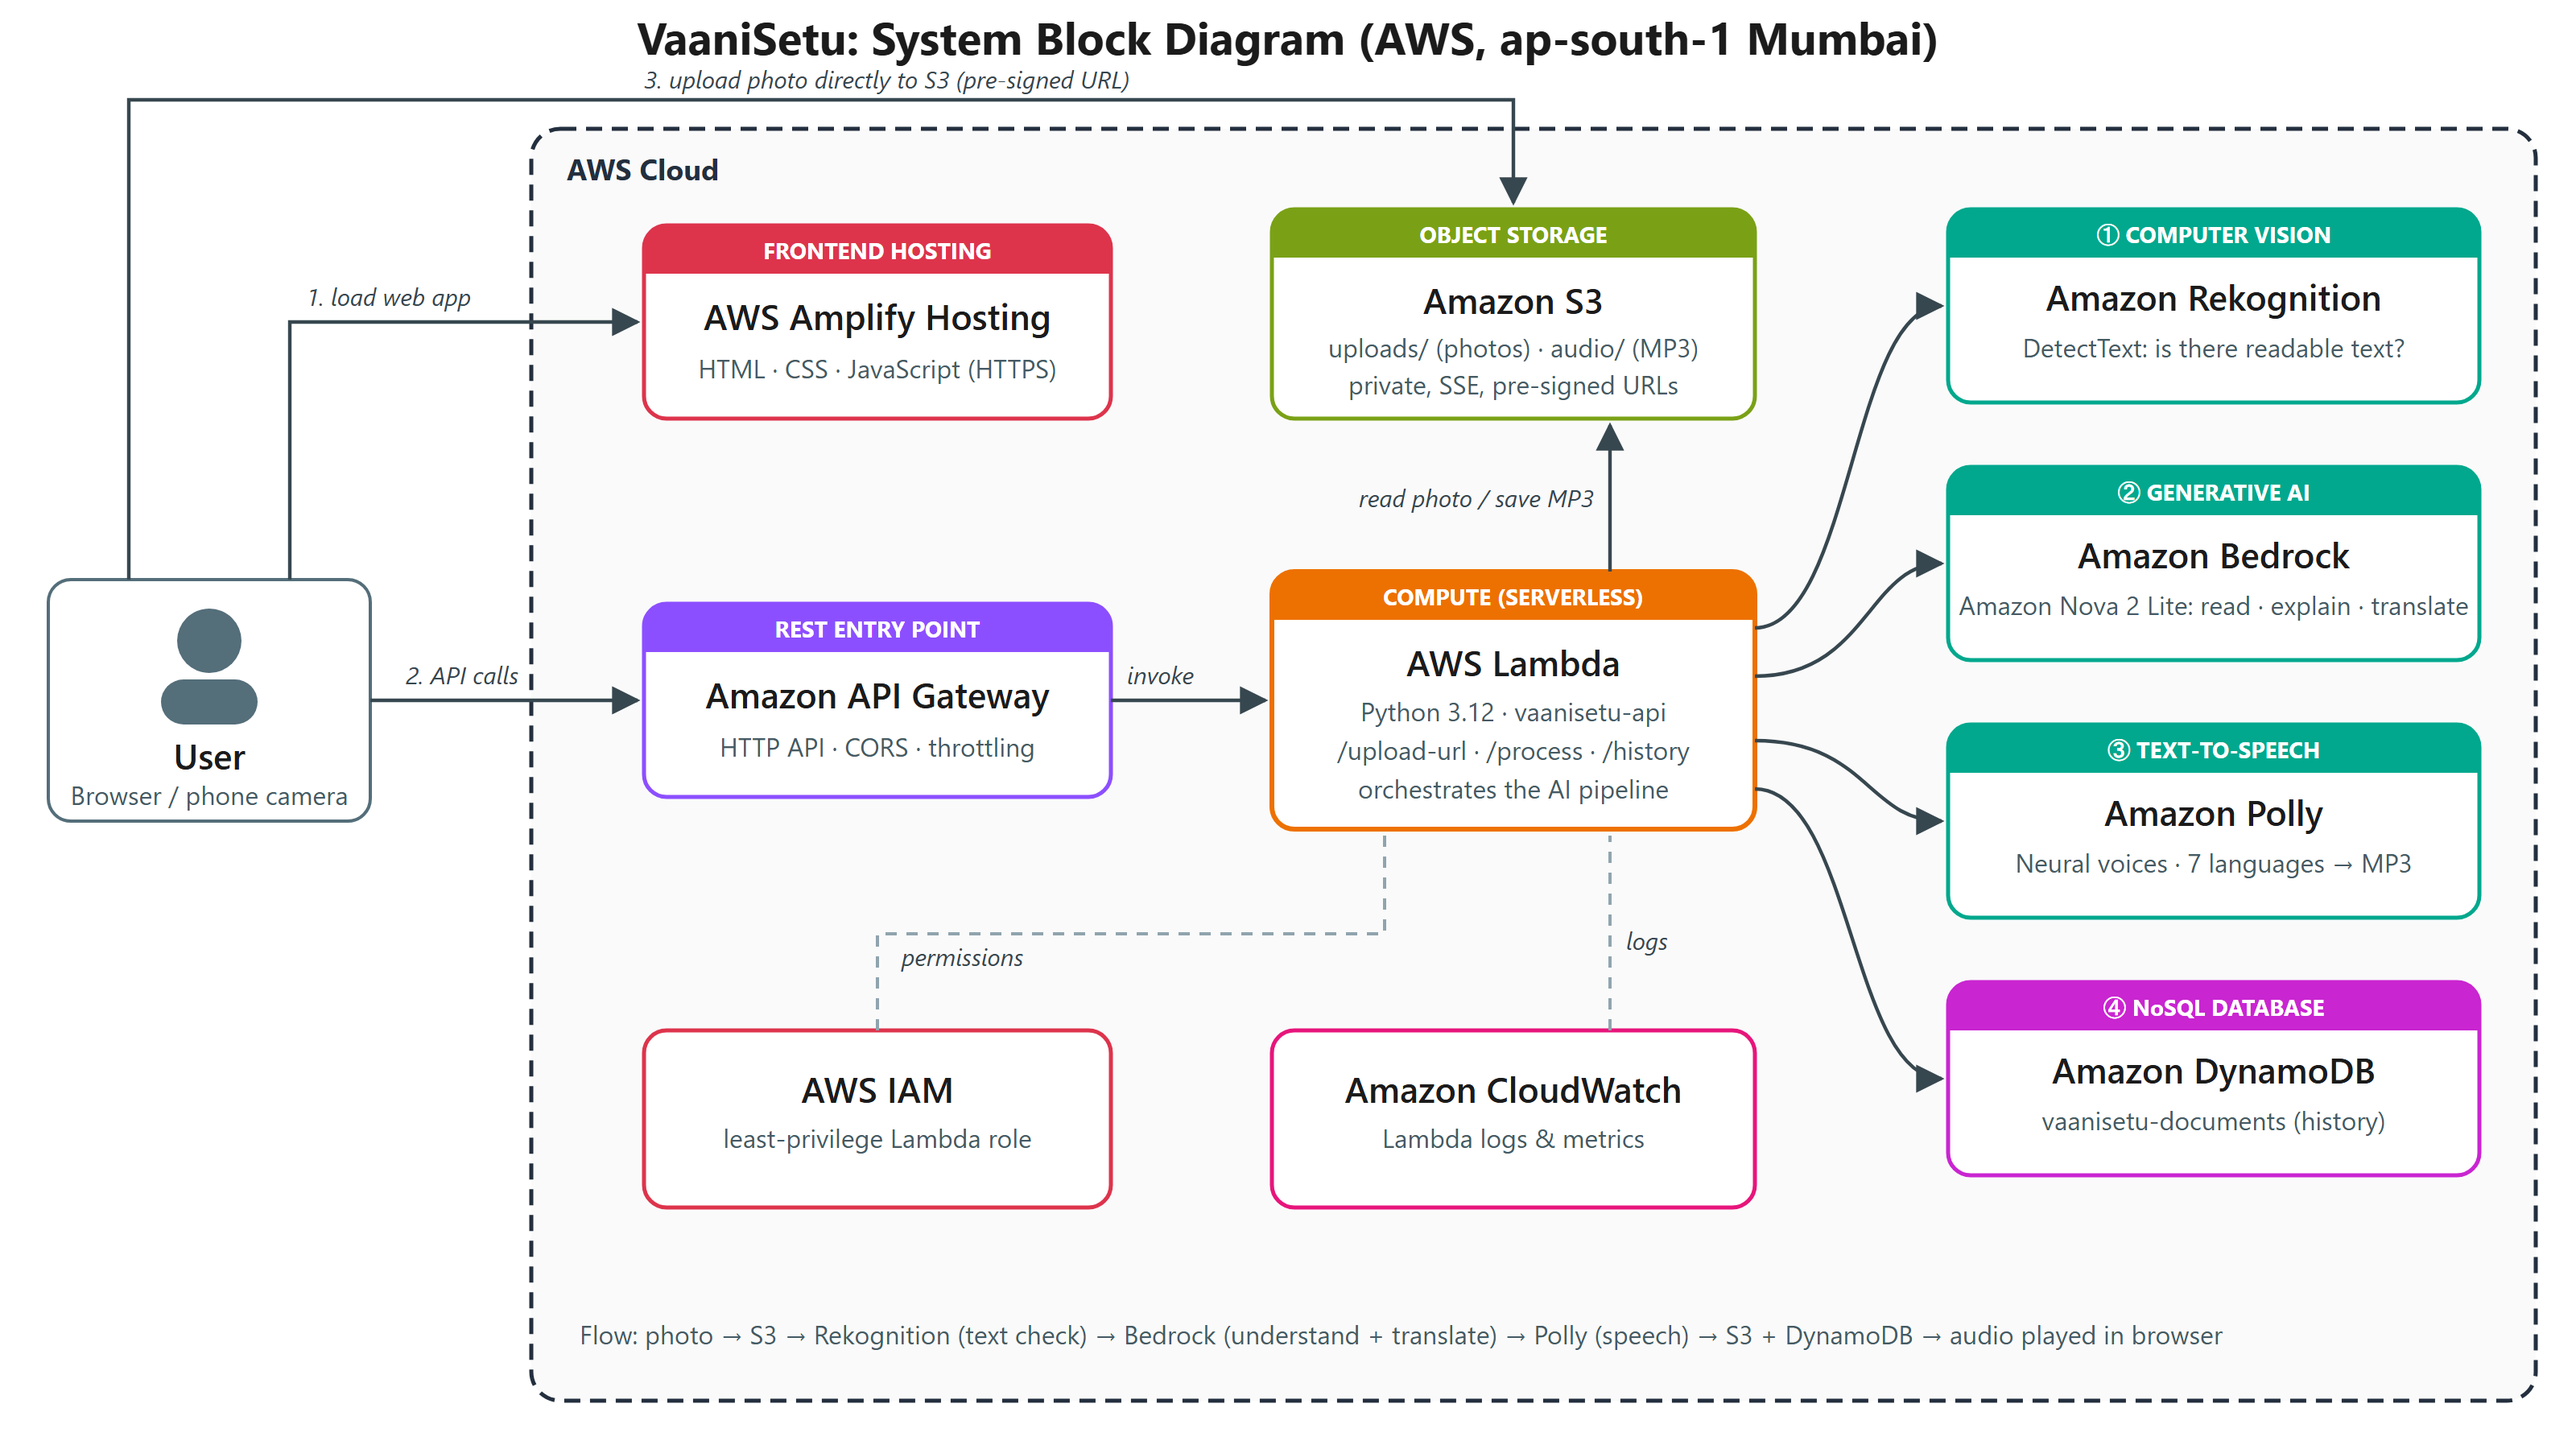
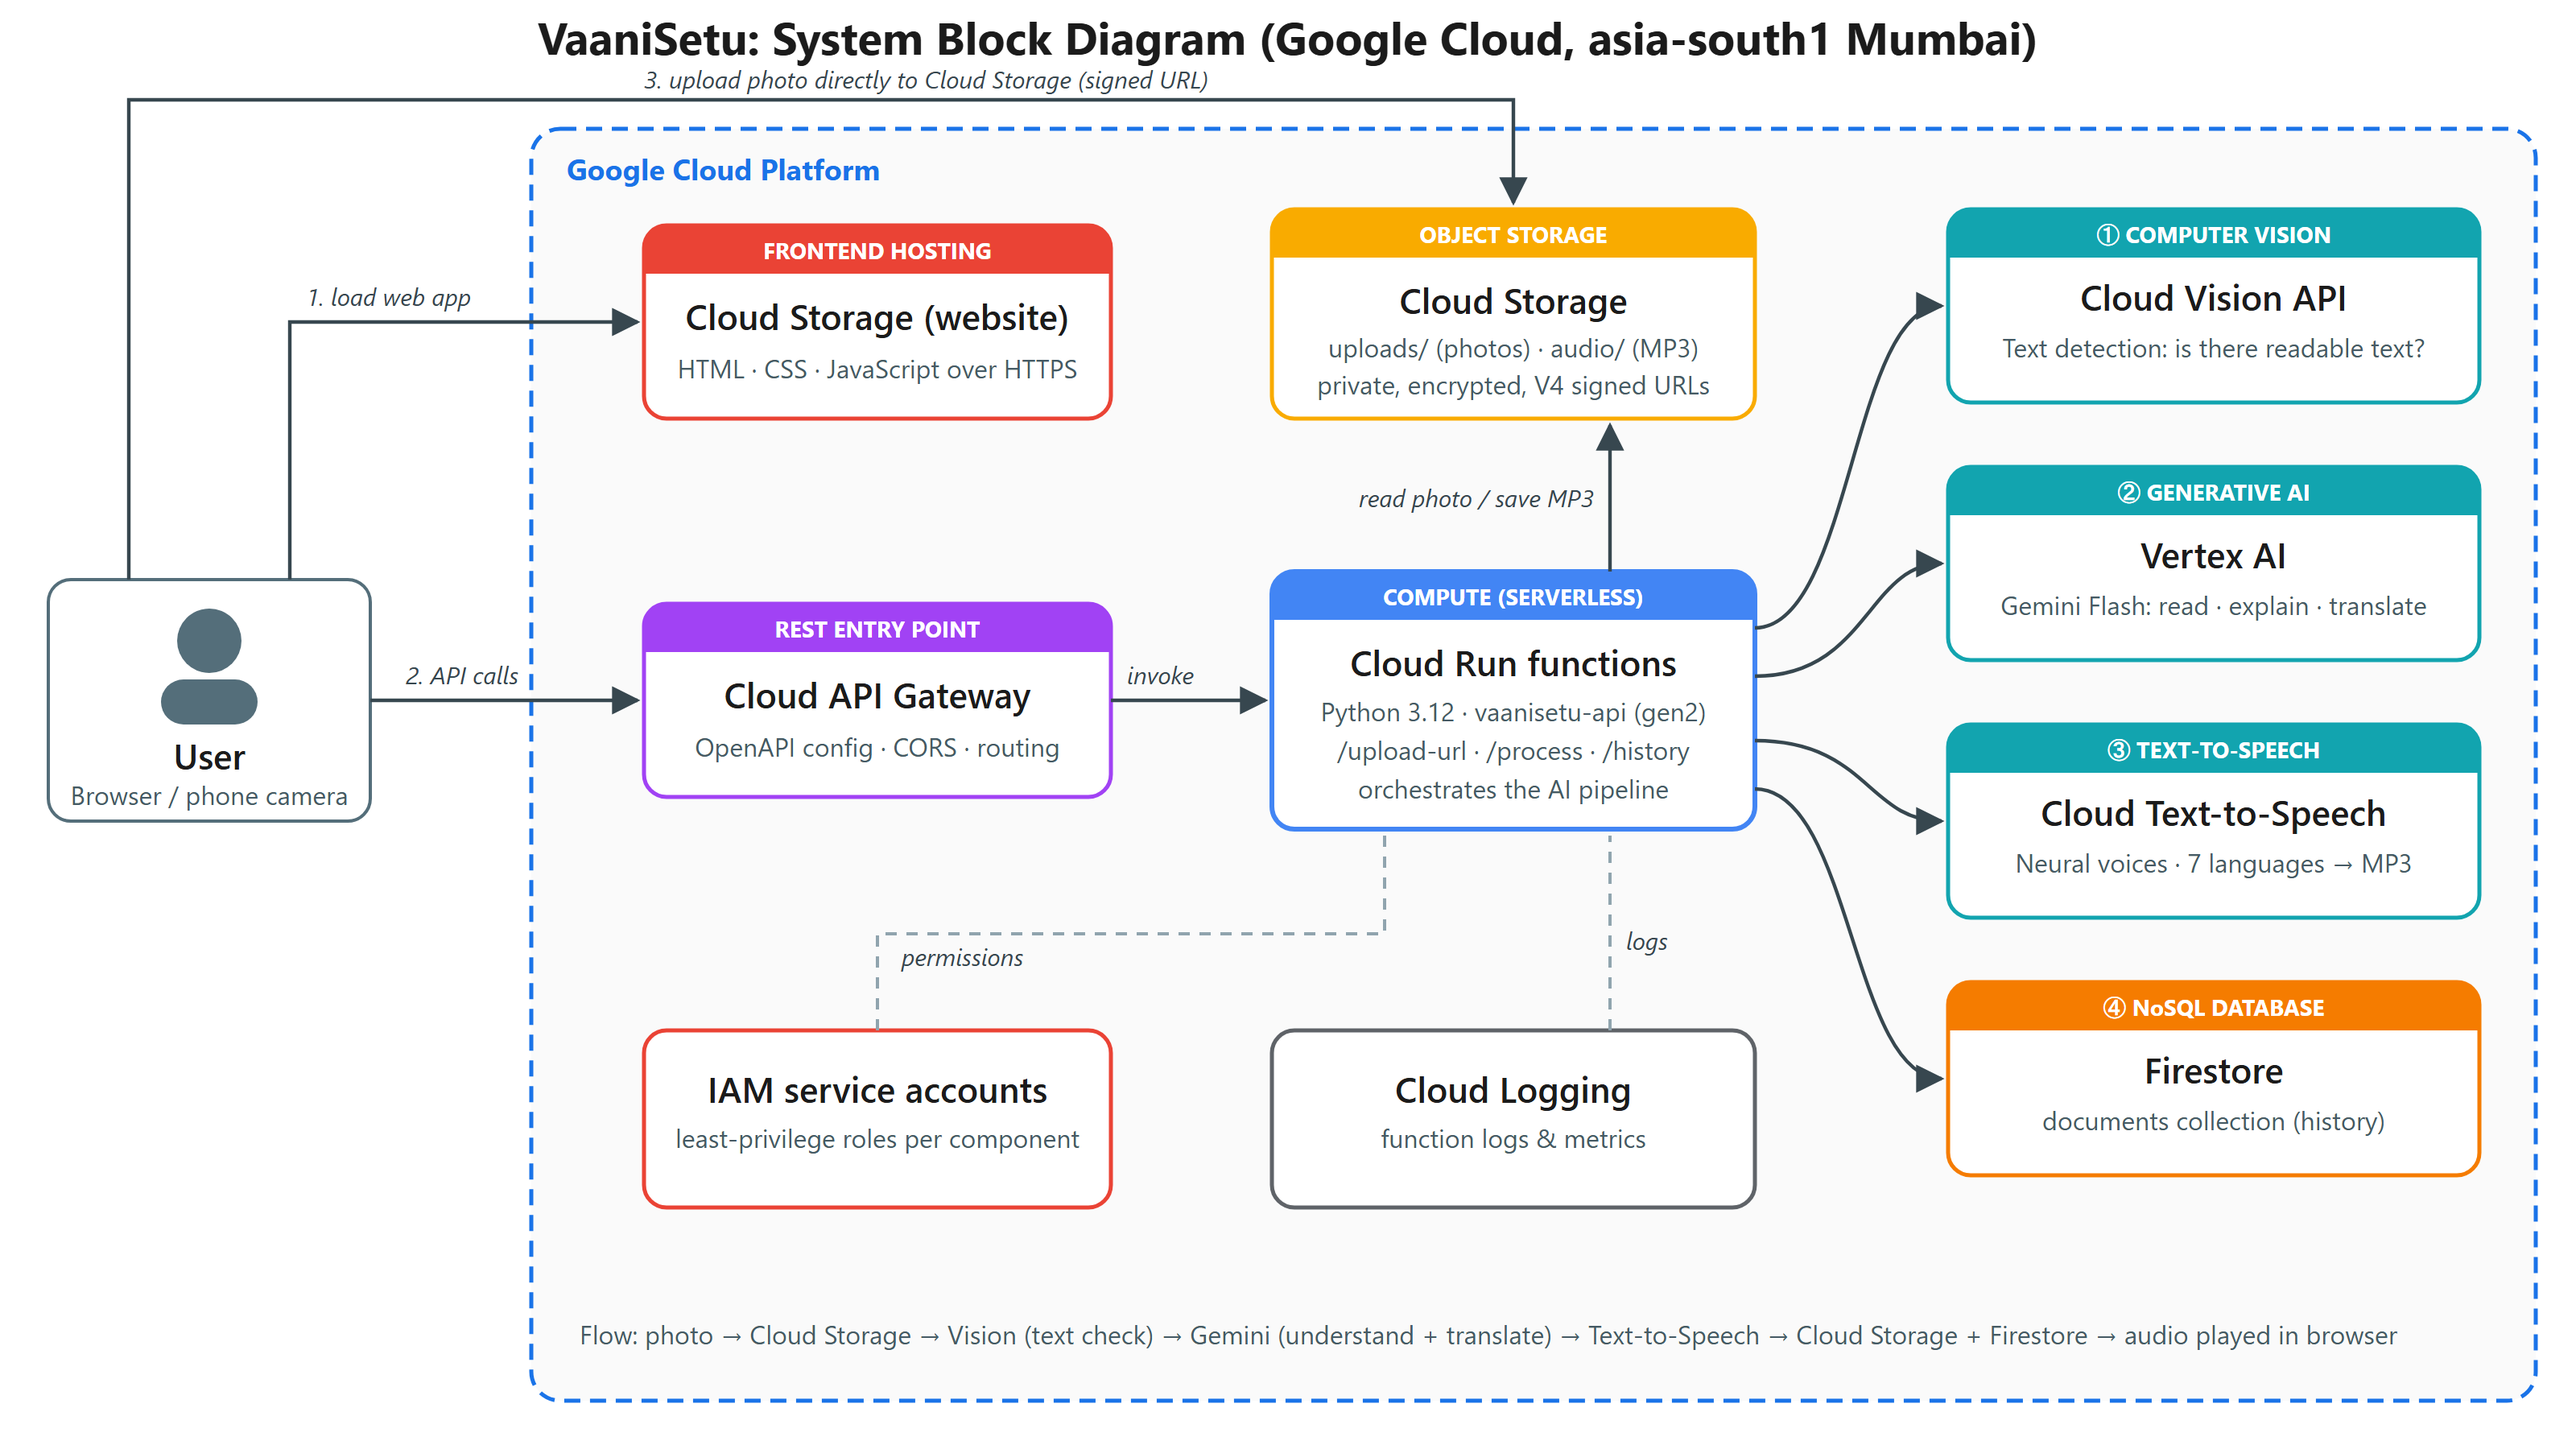
Redraw block diagram for Google Cloud

diff --git a/report/diagram.html b/report/diagram.html
@@ -14,11 +14,11 @@ body{margin:0;background:#fff;font-family:"Segoe UI",Arial,sans-serif}
       .dash{stroke:#90a4ae;stroke-width:2;fill:none;stroke-dasharray:7 6}
     </style>
   </defs>
-  <text x="800" y="34" text-anchor="middle" style="font:700 28px 'Segoe UI',Arial;fill:#1b1b1b">VaaniSetu: System Block Diagram (AWS, ap-south-1 Mumbai)</text>
+  <text x="800" y="34" text-anchor="middle" style="font:700 28px 'Segoe UI',Arial;fill:#1b1b1b">VaaniSetu: System Block Diagram (Google Cloud, asia-south1 Mumbai)</text>
 
-  <!-- AWS cloud boundary -->
-  <rect x="330" y="80" width="1245" height="790" rx="18" fill="#fafafa" stroke="#232f3e" stroke-width="2.5" stroke-dasharray="10 6"/>
-  <text x="352" y="112" style="font:700 18px 'Segoe UI';fill:#232f3e">AWS Cloud</text>
+  <!-- Google Cloud boundary -->
+  <rect x="330" y="80" width="1245" height="790" rx="18" fill="#fafafa" stroke="#1a73e8" stroke-width="2.5" stroke-dasharray="10 6"/>
+  <text x="352" y="112" style="font:700 18px 'Segoe UI';fill:#1a73e8">Google Cloud Platform</text>
 
   <!-- user -->
   <rect x="30" y="360" width="200" height="150" rx="14" fill="#fff" stroke="#546e7a" stroke-width="2"/>
@@ -26,71 +26,71 @@ body{margin:0;background:#fff;font-family:"Segoe UI",Arial,sans-serif}
   <text x="130" y="478" text-anchor="middle" class="t">User</text>
   <text x="130" y="500" text-anchor="middle" class="s">Browser / phone camera</text>
 
-  <!-- Amplify -->
-  <rect x="400" y="140" width="290" height="120" rx="14" fill="#fff" stroke="#dd344c" stroke-width="2.5"/>
-  <rect x="400" y="140" width="290" height="30" rx="14" fill="#dd344c"/><rect x="400" y="156" width="290" height="14" fill="#dd344c"/>
+  <!-- Hosting -->
+  <rect x="400" y="140" width="290" height="120" rx="14" fill="#fff" stroke="#ea4335" stroke-width="2.5"/>
+  <rect x="400" y="140" width="290" height="30" rx="14" fill="#ea4335"/><rect x="400" y="156" width="290" height="14" fill="#ea4335"/>
   <text x="545" y="161" text-anchor="middle" class="n">FRONTEND HOSTING</text>
-  <text x="545" y="205" text-anchor="middle" class="t">AWS Amplify Hosting</text>
-  <text x="545" y="235" text-anchor="middle" class="s">HTML · CSS · JavaScript (HTTPS)</text>
+  <text x="545" y="205" text-anchor="middle" class="t">Cloud Storage (website)</text>
+  <text x="545" y="235" text-anchor="middle" class="s">HTML · CSS · JavaScript over HTTPS</text>
 
   <!-- API GW -->
-  <rect x="400" y="375" width="290" height="120" rx="14" fill="#fff" stroke="#8c4fff" stroke-width="2.5"/>
-  <rect x="400" y="375" width="290" height="30" rx="14" fill="#8c4fff"/><rect x="400" y="391" width="290" height="14" fill="#8c4fff"/>
+  <rect x="400" y="375" width="290" height="120" rx="14" fill="#fff" stroke="#a142f4" stroke-width="2.5"/>
+  <rect x="400" y="375" width="290" height="30" rx="14" fill="#a142f4"/><rect x="400" y="391" width="290" height="14" fill="#a142f4"/>
   <text x="545" y="396" text-anchor="middle" class="n">REST ENTRY POINT</text>
-  <text x="545" y="440" text-anchor="middle" class="t">Amazon API Gateway</text>
-  <text x="545" y="470" text-anchor="middle" class="s">HTTP API · CORS · throttling</text>
+  <text x="545" y="440" text-anchor="middle" class="t">Cloud API Gateway</text>
+  <text x="545" y="470" text-anchor="middle" class="s">OpenAPI config · CORS · routing</text>
 
-  <!-- Lambda -->
-  <rect x="790" y="355" width="300" height="160" rx="14" fill="#fff" stroke="#ed7100" stroke-width="3"/>
-  <rect x="790" y="355" width="300" height="30" rx="14" fill="#ed7100"/><rect x="790" y="371" width="300" height="14" fill="#ed7100"/>
+  <!-- Cloud Run function -->
+  <rect x="790" y="355" width="300" height="160" rx="14" fill="#fff" stroke="#4285f4" stroke-width="3"/>
+  <rect x="790" y="355" width="300" height="30" rx="14" fill="#4285f4"/><rect x="790" y="371" width="300" height="14" fill="#4285f4"/>
   <text x="940" y="376" text-anchor="middle" class="n">COMPUTE (SERVERLESS)</text>
-  <text x="940" y="420" text-anchor="middle" class="t">AWS Lambda</text>
-  <text x="940" y="448" text-anchor="middle" class="s">Python 3.12 · vaanisetu-api</text>
+  <text x="940" y="420" text-anchor="middle" class="t">Cloud Run functions</text>
+  <text x="940" y="448" text-anchor="middle" class="s">Python 3.12 · vaanisetu-api (gen2)</text>
   <text x="940" y="472" text-anchor="middle" class="s">/upload-url · /process · /history</text>
   <text x="940" y="496" text-anchor="middle" class="s">orchestrates the AI pipeline</text>
 
-  <!-- S3 -->
-  <rect x="790" y="130" width="300" height="130" rx="14" fill="#fff" stroke="#7aa116" stroke-width="2.5"/>
-  <rect x="790" y="130" width="300" height="30" rx="14" fill="#7aa116"/><rect x="790" y="146" width="300" height="14" fill="#7aa116"/>
+  <!-- Cloud Storage -->
+  <rect x="790" y="130" width="300" height="130" rx="14" fill="#fff" stroke="#f9ab00" stroke-width="2.5"/>
+  <rect x="790" y="130" width="300" height="30" rx="14" fill="#f9ab00"/><rect x="790" y="146" width="300" height="14" fill="#f9ab00"/>
   <text x="940" y="151" text-anchor="middle" class="n">OBJECT STORAGE</text>
-  <text x="940" y="195" text-anchor="middle" class="t">Amazon S3</text>
+  <text x="940" y="195" text-anchor="middle" class="t">Cloud Storage</text>
   <text x="940" y="222" text-anchor="middle" class="s">uploads/ (photos) · audio/ (MP3)</text>
-  <text x="940" y="245" text-anchor="middle" class="s">private, SSE, pre-signed URLs</text>
+  <text x="940" y="245" text-anchor="middle" class="s">private, encrypted, V4 signed URLs</text>
 
   <!-- right column AI -->
   <g>
-    <rect x="1210" y="130" width="330" height="120" rx="14" fill="#fff" stroke="#01a88d" stroke-width="2.5"/>
-    <rect x="1210" y="130" width="330" height="30" rx="14" fill="#01a88d"/><rect x="1210" y="146" width="330" height="14" fill="#01a88d"/>
+    <rect x="1210" y="130" width="330" height="120" rx="14" fill="#fff" stroke="#12a4af" stroke-width="2.5"/>
+    <rect x="1210" y="130" width="330" height="30" rx="14" fill="#12a4af"/><rect x="1210" y="146" width="330" height="14" fill="#12a4af"/>
     <text x="1375" y="151" text-anchor="middle" class="n">① COMPUTER VISION</text>
-    <text x="1375" y="193" text-anchor="middle" class="t">Amazon Rekognition</text>
-    <text x="1375" y="222" text-anchor="middle" class="s">DetectText: is there readable text?</text>
+    <text x="1375" y="193" text-anchor="middle" class="t">Cloud Vision API</text>
+    <text x="1375" y="222" text-anchor="middle" class="s">Text detection: is there readable text?</text>
 
-    <rect x="1210" y="290" width="330" height="120" rx="14" fill="#fff" stroke="#01a88d" stroke-width="2.5"/>
-    <rect x="1210" y="290" width="330" height="30" rx="14" fill="#01a88d"/><rect x="1210" y="306" width="330" height="14" fill="#01a88d"/>
+    <rect x="1210" y="290" width="330" height="120" rx="14" fill="#fff" stroke="#12a4af" stroke-width="2.5"/>
+    <rect x="1210" y="290" width="330" height="30" rx="14" fill="#12a4af"/><rect x="1210" y="306" width="330" height="14" fill="#12a4af"/>
     <text x="1375" y="311" text-anchor="middle" class="n">② GENERATIVE AI</text>
-    <text x="1375" y="353" text-anchor="middle" class="t">Amazon Bedrock</text>
-    <text x="1375" y="382" text-anchor="middle" class="s">Amazon Nova 2 Lite: read · explain · translate</text>
+    <text x="1375" y="353" text-anchor="middle" class="t">Vertex AI</text>
+    <text x="1375" y="382" text-anchor="middle" class="s">Gemini Flash: read · explain · translate</text>
 
-    <rect x="1210" y="450" width="330" height="120" rx="14" fill="#fff" stroke="#01a88d" stroke-width="2.5"/>
-    <rect x="1210" y="450" width="330" height="30" rx="14" fill="#01a88d"/><rect x="1210" y="466" width="330" height="14" fill="#01a88d"/>
+    <rect x="1210" y="450" width="330" height="120" rx="14" fill="#fff" stroke="#12a4af" stroke-width="2.5"/>
+    <rect x="1210" y="450" width="330" height="30" rx="14" fill="#12a4af"/><rect x="1210" y="466" width="330" height="14" fill="#12a4af"/>
     <text x="1375" y="471" text-anchor="middle" class="n">③ TEXT-TO-SPEECH</text>
-    <text x="1375" y="513" text-anchor="middle" class="t">Amazon Polly</text>
+    <text x="1375" y="513" text-anchor="middle" class="t">Cloud Text-to-Speech</text>
     <text x="1375" y="542" text-anchor="middle" class="s">Neural voices · 7 languages → MP3</text>
 
-    <rect x="1210" y="610" width="330" height="120" rx="14" fill="#fff" stroke="#c925d1" stroke-width="2.5"/>
-    <rect x="1210" y="610" width="330" height="30" rx="14" fill="#c925d1"/><rect x="1210" y="626" width="330" height="14" fill="#c925d1"/>
+    <rect x="1210" y="610" width="330" height="120" rx="14" fill="#fff" stroke="#f57c00" stroke-width="2.5"/>
+    <rect x="1210" y="610" width="330" height="30" rx="14" fill="#f57c00"/><rect x="1210" y="626" width="330" height="14" fill="#f57c00"/>
     <text x="1375" y="631" text-anchor="middle" class="n">④ NoSQL DATABASE</text>
-    <text x="1375" y="673" text-anchor="middle" class="t">Amazon DynamoDB</text>
-    <text x="1375" y="702" text-anchor="middle" class="s">vaanisetu-documents (history)</text>
+    <text x="1375" y="673" text-anchor="middle" class="t">Firestore</text>
+    <text x="1375" y="702" text-anchor="middle" class="s">documents collection (history)</text>
   </g>
 
   <!-- security / monitoring -->
-  <rect x="400" y="640" width="290" height="110" rx="14" fill="#fff" stroke="#dd344c" stroke-width="2.5"/>
-  <text x="545" y="685" text-anchor="middle" class="t">AWS IAM</text>
-  <text x="545" y="713" text-anchor="middle" class="s">least-privilege Lambda role</text>
-  <rect x="790" y="640" width="300" height="110" rx="14" fill="#fff" stroke="#e7157b" stroke-width="2.5"/>
-  <text x="940" y="685" text-anchor="middle" class="t">Amazon CloudWatch</text>
-  <text x="940" y="713" text-anchor="middle" class="s">Lambda logs &amp; metrics</text>
+  <rect x="400" y="640" width="290" height="110" rx="14" fill="#fff" stroke="#ea4335" stroke-width="2.5"/>
+  <text x="545" y="685" text-anchor="middle" class="t">IAM service accounts</text>
+  <text x="545" y="713" text-anchor="middle" class="s">least-privilege roles per component</text>
+  <rect x="790" y="640" width="300" height="110" rx="14" fill="#fff" stroke="#5f6368" stroke-width="2.5"/>
+  <text x="940" y="685" text-anchor="middle" class="t">Cloud Logging</text>
+  <text x="940" y="713" text-anchor="middle" class="s">function logs &amp; metrics</text>
 
   <!-- arrows -->
   <path class="ln" d="M180 360 L180 200 L396 200"/>
@@ -100,7 +100,7 @@ body{margin:0;background:#fff;font-family:"Segoe UI",Arial,sans-serif}
   <path class="ln" d="M690 435 L786 435"/>
   <text x="700" y="425" class="l">invoke</text>
   <path class="ln" d="M80 360 L80 62 L940 62 L940 126"/>
-  <text x="400" y="55" class="l">3. upload photo directly to S3 (pre-signed URL)</text>
+  <text x="400" y="55" class="l">3. upload photo directly to Cloud Storage (signed URL)</text>
   <path class="ln" d="M1000 355 L1000 264"/>
   <text x="990" y="315" text-anchor="end" class="l">read photo / save MP3</text>
   <path class="ln" d="M1090 390 C1150 390, 1150 190, 1206 190"/>
@@ -113,6 +113,6 @@ body{margin:0;background:#fff;font-family:"Segoe UI",Arial,sans-serif}
   <text x="1010" y="590" class="l">logs</text>
 
   <!-- legend -->
-  <text x="360" y="835" class="s">Flow: photo → S3 → Rekognition (text check) → Bedrock (understand + translate) → Polly (speech) → S3 + DynamoDB → audio played in browser</text>
+  <text x="360" y="835" class="s">Flow: photo → Cloud Storage → Vision (text check) → Gemini (understand + translate) → Text-to-Speech → Cloud Storage + Firestore → audio played in browser</text>
 </svg>
 </body></html>
